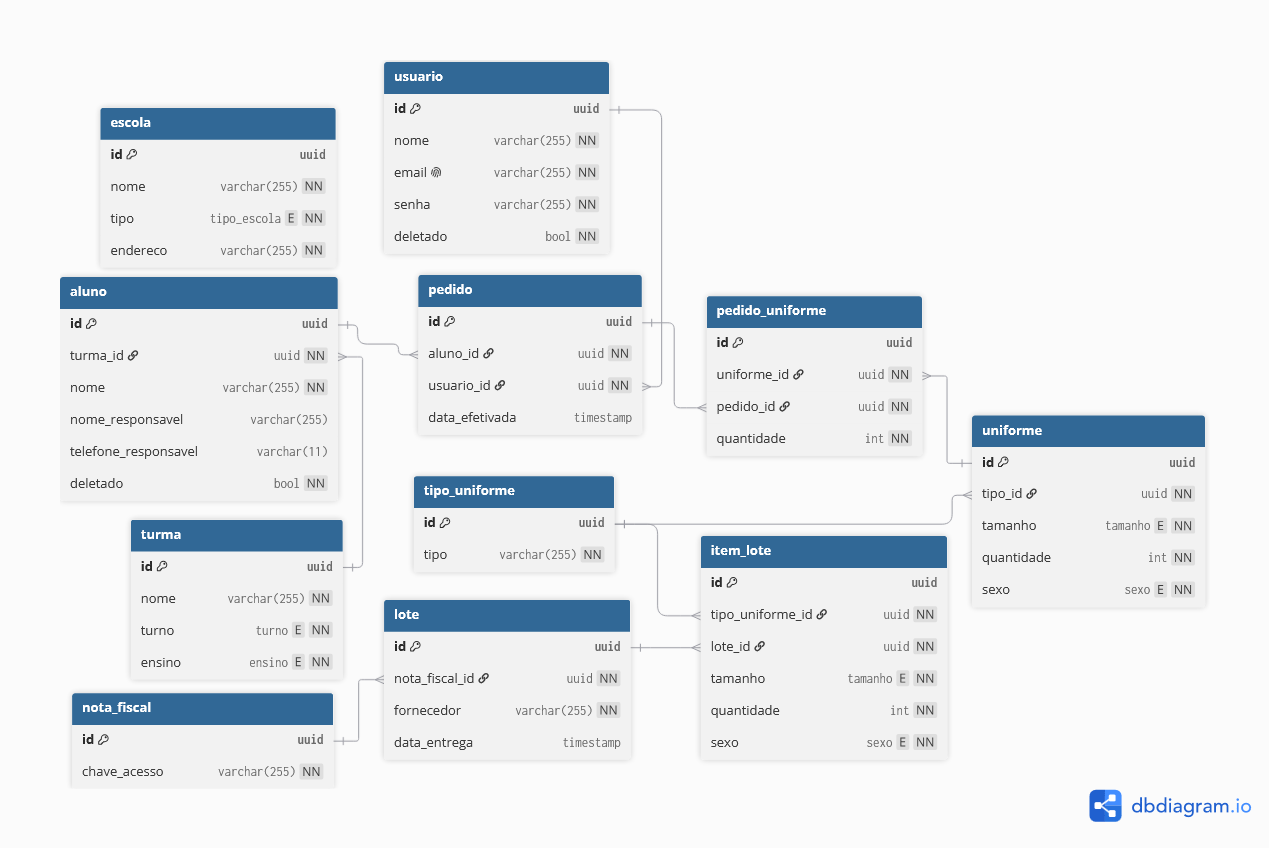
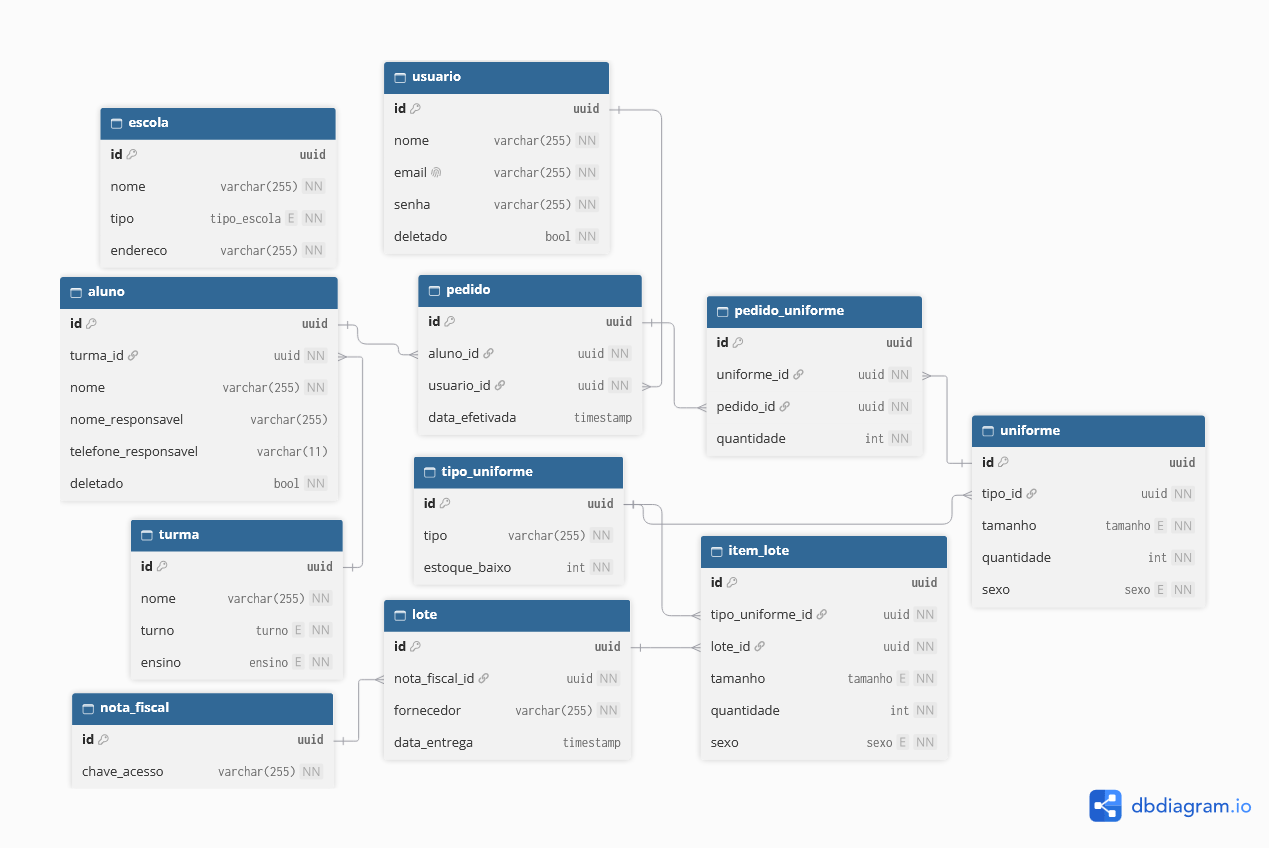
feat: adicionado limite de estoque baixo por tipo de uniforme

diff --git a/backend/src/test/java/com/six_m/uniform/domain/TipoUniformeServiceTest.java b/backend/src/test/java/com/six_m/uniform/domain/TipoUniformeServiceTest.java
@@ -45,7 +45,7 @@ public class TipoUniformeServiceTest {
 
     @Test
     void deveCriarTipoUniformeComSucesso() {
-        RequestCriarTipoUniformeDTO dto = new RequestCriarTipoUniformeDTO("Camiseta");
+        RequestCriarTipoUniformeDTO dto = new RequestCriarTipoUniformeDTO("Camiseta", 10);
 
         UUID idGerado = UUID.randomUUID();
         when(tipoUniformeRepository.save(any(TipoUniforme.class))).thenAnswer(invocation -> {
@@ -58,11 +58,12 @@ public class TipoUniformeServiceTest {
 
         assertEquals(idGerado, response.id());
         assertEquals("Camiseta", response.tipo());
+        assertEquals(10, response.estoqueBaixo());
     }
 
     @Test
     void deveLancarExcecaoQuandoTipoJaExisteAoCriar() {
-        RequestCriarTipoUniformeDTO dto = new RequestCriarTipoUniformeDTO("Camiseta");
+        RequestCriarTipoUniformeDTO dto = new RequestCriarTipoUniformeDTO("Camiseta", 10);
         when(tipoUniformeRepository.existsByTipoIgnoreCase("Camiseta")).thenReturn(true);
 
         BadRequestException exception = assertThrows(BadRequestException.class,
@@ -74,7 +75,7 @@ public class TipoUniformeServiceTest {
 
     @Test
     void deveRemoverEspacosDasPontasAoCriarTipoUniforme() {
-        RequestCriarTipoUniformeDTO dto = new RequestCriarTipoUniformeDTO("  Camiseta gola V  ");
+        RequestCriarTipoUniformeDTO dto = new RequestCriarTipoUniformeDTO("  Camiseta gola V  ", 10);
         when(tipoUniformeRepository.save(any(TipoUniforme.class))).thenAnswer(invocation -> invocation.getArgument(0));
 
         tipoUniformeService.criarTipoUniforme(dto);
@@ -82,6 +83,7 @@ public class TipoUniformeServiceTest {
         ArgumentCaptor<TipoUniforme> captor = ArgumentCaptor.forClass(TipoUniforme.class);
         verify(tipoUniformeRepository).save(captor.capture());
         assertEquals("Camiseta gola V", captor.getValue().getTipo());
+        assertEquals(10, captor.getValue().getEstoqueBaixo());
         verify(tipoUniformeRepository).existsByTipoIgnoreCase("Camiseta gola V");
     }
 
@@ -139,8 +141,8 @@ public class TipoUniformeServiceTest {
     @Test
     void deveAtualizarTipoUniformeComSucesso() {
         UUID id = UUID.randomUUID();
-        TipoUniforme tipoExistente = TipoUniforme.builder().id(id).tipo("Camiseta").build();
-        RequestAtualizarTipoUniformeDTO dto = new RequestAtualizarTipoUniformeDTO("Camiseta Polo");
+        TipoUniforme tipoExistente = TipoUniforme.builder().id(id).tipo("Camiseta").estoqueBaixo(10).build();
+        RequestAtualizarTipoUniformeDTO dto = new RequestAtualizarTipoUniformeDTO("Camiseta Polo", 5);
 
         when(tipoUniformeRepository.findById(id)).thenReturn(Optional.of(tipoExistente));
         when(tipoUniformeRepository.save(any(TipoUniforme.class))).thenAnswer(invocation -> invocation.getArgument(0));
@@ -148,12 +150,13 @@ public class TipoUniformeServiceTest {
         ResponseTipoUniformeDTO response = tipoUniformeService.atualizarTipoUniforme(id, dto);
 
         assertEquals("Camiseta Polo", response.tipo());
+        assertEquals(5, response.estoqueBaixo());
     }
 
     @Test
     void deveLancarExcecaoQuandoTipoUniformeNaoExisteAoAtualizar() {
         UUID id = UUID.randomUUID();
-        RequestAtualizarTipoUniformeDTO dto = new RequestAtualizarTipoUniformeDTO("Camiseta Polo");
+        RequestAtualizarTipoUniformeDTO dto = new RequestAtualizarTipoUniformeDTO("Camiseta Polo", 5);
 
         when(tipoUniformeRepository.findById(id)).thenReturn(Optional.empty());
 
@@ -164,8 +167,8 @@ public class TipoUniformeServiceTest {
     @Test
     void deveLancarExcecaoQuandoTipoJaPertenceAOutroTipoAoAtualizar() {
         UUID id = UUID.randomUUID();
-        TipoUniforme existente = TipoUniforme.builder().id(id).tipo("Calça").build();
-        RequestAtualizarTipoUniformeDTO dto = new RequestAtualizarTipoUniformeDTO("Camiseta");
+        TipoUniforme existente = TipoUniforme.builder().id(id).tipo("Calça").estoqueBaixo(10).build();
+        RequestAtualizarTipoUniformeDTO dto = new RequestAtualizarTipoUniformeDTO("Camiseta", 5);
 
         when(tipoUniformeRepository.findById(id)).thenReturn(Optional.of(existente));
         when(tipoUniformeRepository.existsByTipoIgnoreCaseAndIdNot("Camiseta", id)).thenReturn(true);
@@ -181,7 +184,7 @@ public class TipoUniformeServiceTest {
     void devePermitirAtualizarTipoUniformeMantendoOMesmoNome() {
         UUID id = UUID.randomUUID();
         TipoUniforme existente = TipoUniforme.builder().id(id).tipo("Camiseta").build();
-        RequestAtualizarTipoUniformeDTO dto = new RequestAtualizarTipoUniformeDTO("Camiseta");
+        RequestAtualizarTipoUniformeDTO dto = new RequestAtualizarTipoUniformeDTO("Camiseta", 5);
 
         when(tipoUniformeRepository.findById(id)).thenReturn(Optional.of(existente));
         when(tipoUniformeRepository.existsByTipoIgnoreCaseAndIdNot("Camiseta", id)).thenReturn(false);
@@ -190,6 +193,7 @@ public class TipoUniformeServiceTest {
         ResponseTipoUniformeDTO response = tipoUniformeService.atualizarTipoUniforme(id, dto);
 
         assertEquals("Camiseta", response.tipo());
+        assertEquals(5, response.estoqueBaixo());
     }
 
     @Test

diff --git a/backend/src/test/java/com/six_m/uniform/domain/UniformeServiceTest.java b/backend/src/test/java/com/six_m/uniform/domain/UniformeServiceTest.java
@@ -41,7 +41,7 @@ public class UniformeServiceTest {
 
     @Test
     void deveBuscarTodosUniformesPaginado() {
-        TipoUniforme tipo = TipoUniforme.builder().id(UUID.randomUUID()).tipo("Camiseta").build();
+        TipoUniforme tipo = TipoUniforme.builder().id(UUID.randomUUID()).tipo("Camiseta").estoqueBaixo(10).build();
         Uniforme uniforme1 = Uniforme.builder().id(UUID.randomUUID()).tipoUniforme(tipo).tamanho(Tamanho.P).quantidade(3).sexo(Sexo.MASCULINO).build();
         Uniforme uniforme2 = Uniforme.builder().id(UUID.randomUUID()).tipoUniforme(tipo).tamanho(Tamanho.G).quantidade(7).sexo(Sexo.FEMININO).build();
 
@@ -54,6 +54,8 @@ public class UniformeServiceTest {
         assertEquals(2, resultado.getTotalElements());
         assertEquals(Tamanho.P, resultado.getContent().get(0).tamanho());
         assertEquals(Tamanho.G, resultado.getContent().get(1).tamanho());
+        assertEquals(10, resultado.getContent().get(0).estoqueBaixo());
+        assertEquals(10, resultado.getContent().get(1).estoqueBaixo());
     }
 
     @Test
@@ -70,7 +72,7 @@ public class UniformeServiceTest {
     @Test
     void deveBuscarUniformePorId() {
         UUID id = UUID.randomUUID();
-        TipoUniforme tipo = TipoUniforme.builder().id(UUID.randomUUID()).tipo("Camiseta").build();
+        TipoUniforme tipo = TipoUniforme.builder().id(UUID.randomUUID()).tipo("Camiseta").estoqueBaixo(10).build();
         Uniforme uniforme = Uniforme.builder().id(id).tipoUniforme(tipo).tamanho(Tamanho.M).quantidade(10).sexo(Sexo.MASCULINO).build();
 
         when(uniformeRepository.findById(id)).thenReturn(Optional.of(uniforme));
@@ -79,6 +81,7 @@ public class UniformeServiceTest {
 
         assertEquals(id, response.id());
         assertEquals(Tamanho.M, response.tamanho());
+        assertEquals(10, response.estoqueBaixo());
     }
 
     @Test
@@ -248,4 +251,43 @@ public class UniformeServiceTest {
 
         assertTrue(resultado.isEmpty());
     }
+
+    @Test
+    void deveMarcarAlertaQuandoQuantidadeEstaAbaixoDoMinimo() {
+        UUID id = UUID.randomUUID();
+        TipoUniforme tipo = TipoUniforme.builder().id(UUID.randomUUID()).tipo("Camiseta").estoqueBaixo(10).build();
+        Uniforme uniforme = Uniforme.builder().id(id).tipoUniforme(tipo).tamanho(Tamanho.P).sexo(Sexo.FEMININO).quantidade(9).build();
+
+        when(uniformeRepository.findById(id)).thenReturn(Optional.of(uniforme));
+
+        ResponseUniformeDTO response = uniformeService.buscarUniforme(id);
+
+        assertEquals(10, response.estoqueBaixo());
+        assertTrue(response.estoqueBaixoAlerta());
+    }
+
+    @Test
+    void naoDeveMarcarAlertaQuandoQuantidadeEstaAcimaDoMinimo() {
+        UUID id = UUID.randomUUID();
+        TipoUniforme tipo = TipoUniforme.builder().id(UUID.randomUUID()).tipo("Camiseta").estoqueBaixo(10).build();
+        Uniforme uniforme = Uniforme.builder().id(id).tipoUniforme(tipo).tamanho(Tamanho.M).sexo(Sexo.MASCULINO).quantidade(11).build();
+
+        when(uniformeRepository.findById(id)).thenReturn(Optional.of(uniforme));
+
+        assertFalse(uniformeService.buscarUniforme(id).estoqueBaixoAlerta());
+    }
+    @Test
+    void deveMarcarAlertaQuandoQuantidadeEIgualAoMinimo() {
+        UUID id = UUID.randomUUID();
+        TipoUniforme tipo = TipoUniforme.builder().id(UUID.randomUUID()).tipo("Camiseta").estoqueBaixo(10).build();
+        Uniforme uniforme = Uniforme.builder().id(id).tipoUniforme(tipo).tamanho(Tamanho.P).sexo(Sexo.FEMININO).quantidade(10).build();
+
+        when(uniformeRepository.findById(id)).thenReturn(Optional.of(uniforme));
+
+        ResponseUniformeDTO response = uniformeService.buscarUniforme(id);
+
+        assertEquals(10, response.estoqueBaixo());
+        assertTrue(response.estoqueBaixoAlerta());
+    }
+
 }

diff --git a/backend/src/test/java/com/six_m/uniform/domain/RelatorioServiceTest.java b/backend/src/test/java/com/six_m/uniform/domain/RelatorioServiceTest.java
@@ -56,7 +56,7 @@ public class RelatorioServiceTest {
 
     @Test
     void deveGerarRelatorioEstoqueComSucesso() {
-        TipoUniforme tipo = TipoUniforme.builder().id(java.util.UUID.randomUUID()).tipo("Camiseta").build();
+        TipoUniforme tipo = TipoUniforme.builder().id(java.util.UUID.randomUUID()).tipo("Camiseta").estoqueBaixo(5).build();
         Uniforme uniforme = Uniforme.builder().tipoUniforme(tipo).tamanho(Tamanho.M).sexo(Sexo.MASCULINO).quantidade(10).build();
 
         when(uniformeService.buscarTodosUniformesEntidades()).thenReturn(List.of(uniforme));
@@ -67,9 +67,25 @@ public class RelatorioServiceTest {
         assertNotNull(resultado);
         ArgumentCaptor<List<List<String>>> linhasCaptor = ArgumentCaptor.forClass(List.class);
         verify(pdfTableBuilder).gerarPdf(eq("Relatório de Estoque de Uniformes"), isNull(),
-                eq(List.of("Tipo", "Tamanho", "Sexo", "Quantidade")), linhasCaptor.capture(), isNull());
+                eq(List.of("Tipo", "Tamanho", "Sexo", "Quantidade", "Situação")), linhasCaptor.capture(), isNull());
 
-        assertEquals(List.of("Camiseta", "M", "MASCULINO", "10"), linhasCaptor.getValue().getFirst());
+        assertEquals(List.of("Camiseta", "M", "MASCULINO", "10", "OK"), linhasCaptor.getValue().getFirst());
+    }
+
+    @Test
+    void deveMarcarComoBaixoNoRelatorioQuandoQuantidadeEstaAbaixoDoMinimo() {
+        TipoUniforme tipo = TipoUniforme.builder().id(java.util.UUID.randomUUID()).tipo("Camiseta").estoqueBaixo(10).build();
+        Uniforme uniforme = Uniforme.builder().tipoUniforme(tipo).tamanho(Tamanho.P).sexo(Sexo.FEMININO).quantidade(3).build();
+
+        when(uniformeService.buscarTodosUniformesEntidades()).thenReturn(List.of(uniforme));
+        when(pdfTableBuilder.gerarPdf(any(), any(), any(), any(), any())).thenReturn(new byte[]{1});
+
+        relatorioService.gerarRelatorioEstoque();
+
+        ArgumentCaptor<List<List<String>>> linhasCaptor = ArgumentCaptor.forClass(List.class);
+        verify(pdfTableBuilder).gerarPdf(any(), any(), any(), linhasCaptor.capture(), any());
+
+        assertEquals(List.of("Camiseta", "P", "FEMININO", "3", "BAIXO"), linhasCaptor.getValue().getFirst());
     }
 
     @Test

diff --git a/backend/src/test/java/com/six_m/uniform/FluxoCompletoIntegrationTest.java b/backend/src/test/java/com/six_m/uniform/FluxoCompletoIntegrationTest.java
@@ -57,7 +57,7 @@ class FluxoCompletoIntegrationTest extends AbstractIntegrationTest {
         ResponseEntity<String> response = rest.postForEntity(
                 baseUrl() + "/tipo-uniforme",
                 requisicao("""
-                        {"tipo":"Camiseta"}
+                        {"tipo":"Camiseta", "estoqueBaixo":10}
                         """, token),
                 String.class);
 
@@ -143,9 +143,12 @@ class FluxoCompletoIntegrationTest extends AbstractIntegrationTest {
         ResponseEntity<String> uniformeResponse = rest.exchange(
                 baseUrl() + "/uniforme/" + uniformeId, HttpMethod.GET, entidade, String.class);
 
+
         assertThat(uniformeResponse.getStatusCode()).isEqualTo(HttpStatus.OK);
-        int quantidadeAtual = objectMapper.readTree(uniformeResponse.getBody()).get("quantidade").asInt();
-        assertThat(quantidadeAtual).isEqualTo(15); // 20 (entrada) - 5 (saída)
+        JsonNode uniforme = objectMapper.readTree(uniformeResponse.getBody());
+        assertThat(uniforme.get("quantidade").asInt()).isEqualTo(15);
+        assertThat(uniforme.get("estoqueBaixo").asInt()).isEqualTo(10);
+        assertThat(uniforme.get("estoqueBaixoAlerta").asBoolean()).isFalse();
     }
 
     @Test

diff --git a/backend/src/main/java/com/six_m/uniform/domain/tipoUniforme/TipoUniformeService.java b/backend/src/main/java/com/six_m/uniform/domain/tipoUniforme/TipoUniformeService.java
@@ -34,6 +34,7 @@ public class TipoUniformeService {
 
         TipoUniforme tipoUniforme = TipoUniforme.builder()
                 .tipo(tipo)
+                .estoqueBaixo(dto.estoqueBaixo())
                 .build();
 
         tipoUniforme = tipoUniformeRepository.save(tipoUniforme);
@@ -62,6 +63,7 @@ public class TipoUniformeService {
         }
 
         tipoUniforme.setTipo(tipo);
+        tipoUniforme.setEstoqueBaixo(dto.estoqueBaixo());
 
         tipoUniforme = tipoUniformeRepository.save(tipoUniforme);
 
@@ -91,6 +93,6 @@ public class TipoUniformeService {
     }
 
     private ResponseTipoUniformeDTO toResponseDTO(TipoUniforme tipoUniforme) {
-        return new ResponseTipoUniformeDTO(tipoUniforme.getId(), tipoUniforme.getTipo());
+        return new ResponseTipoUniformeDTO(tipoUniforme.getId(), tipoUniforme.getTipo(), tipoUniforme.getEstoqueBaixo());
     }
 }

diff --git a/backend/src/main/java/com/six_m/uniform/domain/relatorio/RelatorioService.java b/backend/src/main/java/com/six_m/uniform/domain/relatorio/RelatorioService.java
@@ -44,14 +44,15 @@ public class RelatorioService {
                         u.getTipoUniforme().getTipo(),
                         u.getTamanho().name(),
                         u.getSexo().name(),
-                        String.valueOf(u.getQuantidade())
+                        String.valueOf(u.getQuantidade()),
+                        u.estaComEstoqueBaixo() ? "BAIXO" : "OK"
                 ))
                 .toList();
 
         return pdfTableBuilder.gerarPdf(
                 "Relatório de Estoque de Uniformes",
                 null,
-                List.of("Tipo", "Tamanho", "Sexo", "Quantidade"),
+                List.of("Tipo", "Tamanho", "Sexo", "Quantidade", "Situação"),
                 linhas,
                 null
         );

diff --git a/backend/src/main/java/com/six_m/uniform/domain/tipoUniforme/dto/RequestAtualizarTipoUniformeDTO.java b/backend/src/main/java/com/six_m/uniform/domain/tipoUniforme/dto/RequestAtualizarTipoUniformeDTO.java
@@ -1,9 +1,15 @@
 package com.six_m.uniform.domain.tipoUniforme.dto;
 
 import jakarta.validation.constraints.NotBlank;
+import jakarta.validation.constraints.NotNull;
+import jakarta.validation.constraints.PositiveOrZero;
 
 public record RequestAtualizarTipoUniformeDTO(
         @NotBlank(message = "Tipo é obrigatório")
-        String tipo
+        String tipo,
+
+        @NotNull(message = "Estoque baixo é obrigatório")
+        @PositiveOrZero(message = "Estoque baixo não pode ser negativo")
+        Integer estoqueBaixo
 ) {
 }

diff --git a/backend/src/main/java/com/six_m/uniform/domain/tipoUniforme/dto/RequestCriarTipoUniformeDTO.java b/backend/src/main/java/com/six_m/uniform/domain/tipoUniforme/dto/RequestCriarTipoUniformeDTO.java
@@ -1,9 +1,15 @@
 package com.six_m.uniform.domain.tipoUniforme.dto;
 
 import jakarta.validation.constraints.NotBlank;
+import jakarta.validation.constraints.NotNull;
+import jakarta.validation.constraints.PositiveOrZero;
 
 public record RequestCriarTipoUniformeDTO(
         @NotBlank(message = "Tipo é obrigatório")
-        String tipo
+        String tipo,
+
+        @NotNull(message = "Estoque baixo é obrigatório")
+        @PositiveOrZero(message = "Estoque baixo não pode ser negativo")
+        Integer estoqueBaixo
 ) {
 }

diff --git a/backend/src/main/java/com/six_m/uniform/domain/uniforme/UniformeService.java b/backend/src/main/java/com/six_m/uniform/domain/uniforme/UniformeService.java
@@ -101,7 +101,9 @@ public class UniformeService {
                 uniforme.getTipoUniforme().getTipo(),
                 uniforme.getTamanho(),
                 uniforme.getQuantidade(),
-                uniforme.getSexo()
+                uniforme.getSexo(),
+                uniforme.getTipoUniforme().getEstoqueBaixo(),
+                uniforme.estaComEstoqueBaixo()
         );
     }
 }

diff --git a/backend/src/main/java/com/six_m/uniform/domain/uniforme/Uniforme.java b/backend/src/main/java/com/six_m/uniform/domain/uniforme/Uniforme.java
@@ -36,4 +36,8 @@ public class Uniforme {
     @Enumerated(EnumType.STRING)
     @JdbcTypeCode(SqlTypes.NAMED_ENUM)
     private Sexo sexo;
+
+    public boolean estaComEstoqueBaixo() {
+        return quantidade <= tipoUniforme.getEstoqueBaixo();
+    }
 }

diff --git a/backend/src/main/java/com/six_m/uniform/domain/uniforme/dto/ResponseUniformeDTO.java b/backend/src/main/java/com/six_m/uniform/domain/uniforme/dto/ResponseUniformeDTO.java
@@ -11,6 +11,8 @@ public record ResponseUniformeDTO(
         String tipoUniformeNome,
         Tamanho tamanho,
         Integer quantidade,
-        Sexo sexo
+        Sexo sexo,
+        Integer estoqueBaixo,
+        boolean estoqueBaixoAlerta
 ) {
 }

diff --git a/backend/src/main/java/com/six_m/uniform/domain/tipoUniforme/dto/ResponseTipoUniformeDTO.java b/backend/src/main/java/com/six_m/uniform/domain/tipoUniforme/dto/ResponseTipoUniformeDTO.java
@@ -4,6 +4,7 @@ import java.util.UUID;
 
 public record ResponseTipoUniformeDTO(
         UUID id,
-        String tipo
+        String tipo,
+        Integer estoqueBaixo
 ) {
 }
